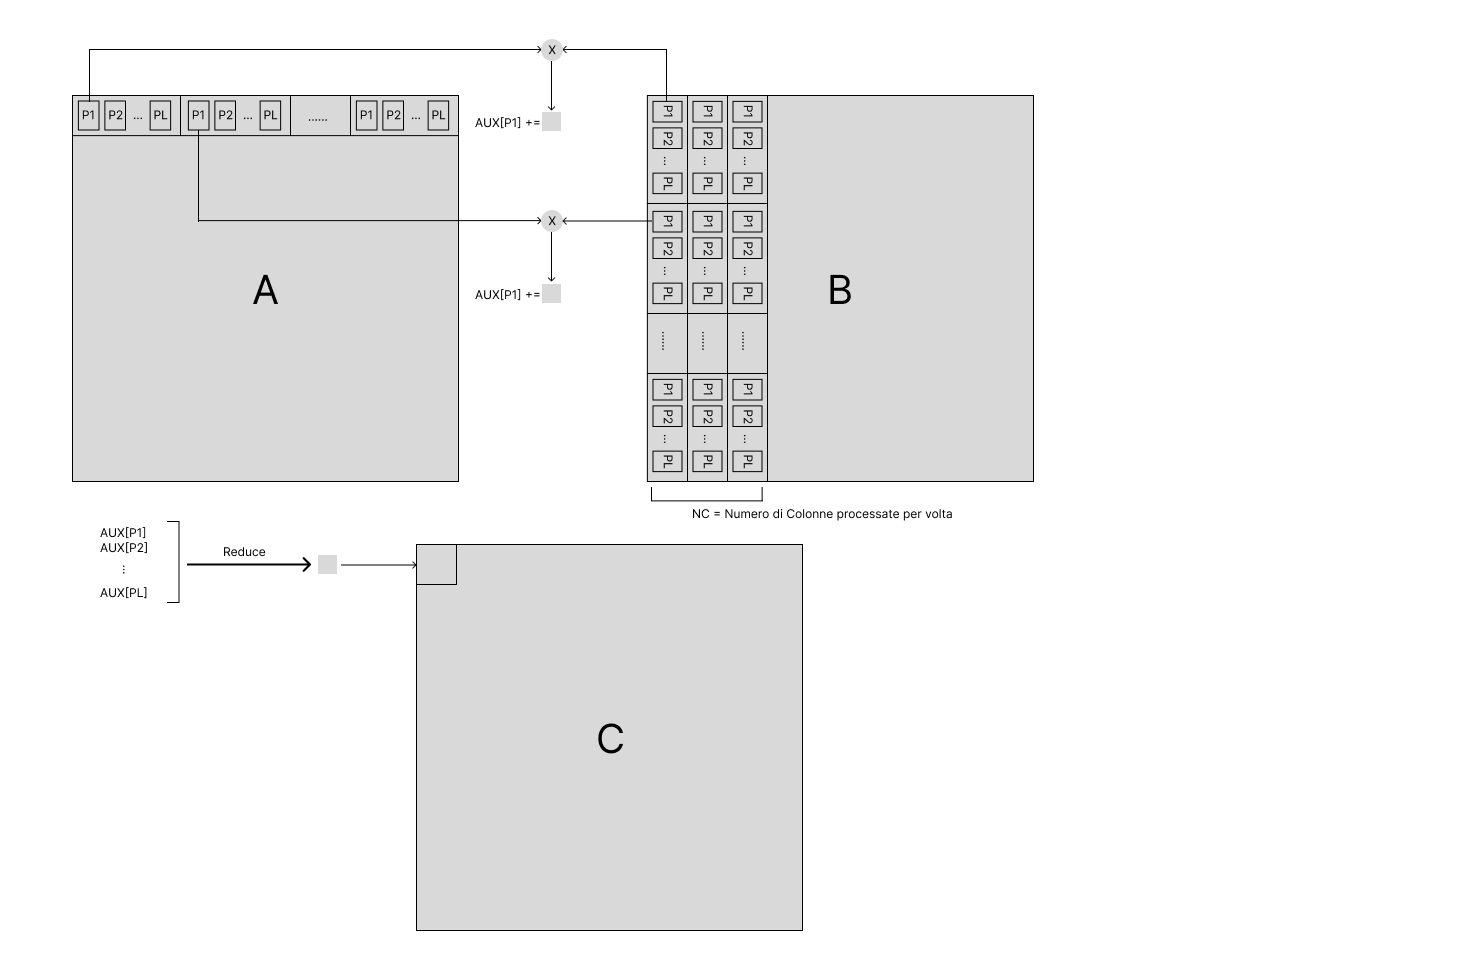
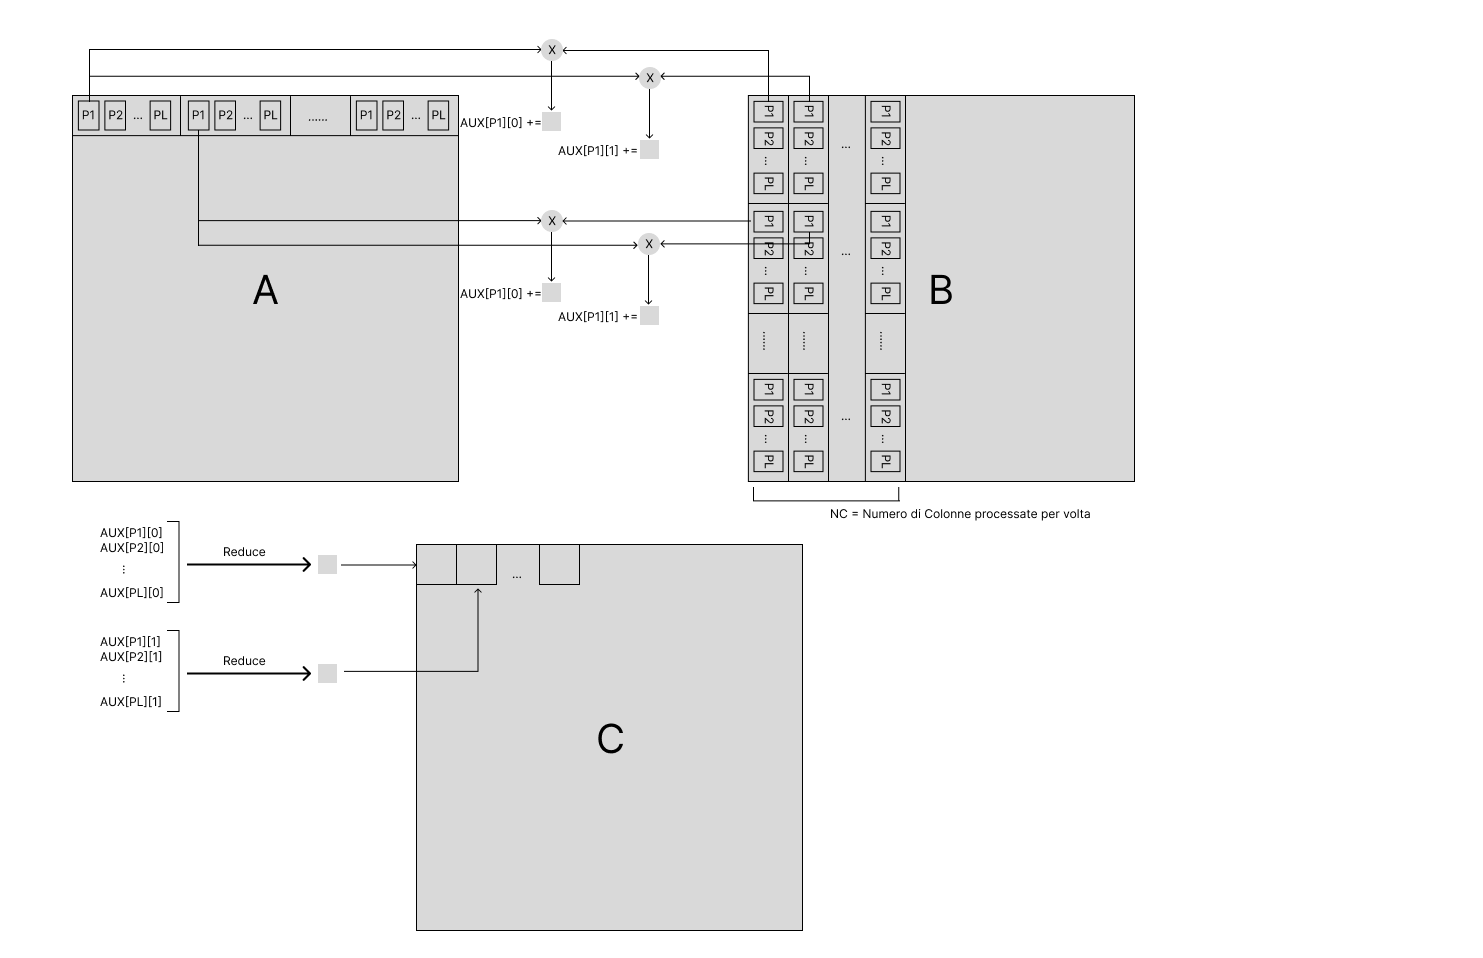
new figures

diff --git a/Report.tex b/Report.tex
@@ -74,7 +74,14 @@ Poiché nella prima versione del codice si scriveva il risultato di un singolo e
 \end{figure}
 
 \subsection{3 versione}
-Nella terza iterazione, si mira a sfruttare l'idea che durante ciascuna iterazione del prodotto tra una riga considerata e un gruppo di colonne, gli stessi elementi della riga A sono utilizzati ripetutamente. Questo consente di memorizzarli in memoria condivisa, riducendo così il numero complessivo di accessi alla memoria globale e incrementando l'efficienza dell'esecuzione. Tuttavia, l'implementazione iniziale prevede lo scorrimento di una colonna alla volta, il che implica la necessità di memorizzare l'intera riga in memoria condivisa. Questo approccio risulta poco pratico dato che le dimensioni delle righe sono considerevoli e la capacità della memoria condivisa è limitata. \\ Per risolvere questo problema, anziché iterare una colonna per volta, si è optato per l'iterazione sulla riga parziale del sottoinsieme delle colonne di B per volta. In questo modo, viene sfruttata la medesima porzione della riga A per eseguire il prodotto con le colonne di B. Tale strategia ottimizza l'utilizzo della memoria condivisa, garantendo al contempo un migliore bilanciamento tra l'efficienza computazionale e l'utilizzo delle risorse di memoria disponibili.
+Nella terza iterazione, si mira a sfruttare l'idea che durante ciascuna iterazione del prodotto tra una riga considerata e un gruppo di colonne, gli stessi elementi della riga A sono utilizzati ripetutamente. Questo consente di memorizzarli in memoria condivisa, riducendo così il numero complessivo di accessi alla memoria globale e incrementando l'efficienza dell'esecuzione. Tuttavia, l'implementazione iniziale prevede lo scorrimento di una colonna alla volta, il che implica la necessità di memorizzare l'intera riga in memoria condivisa. Questo approccio risulta poco pratico dato che le dimensioni delle righe sono considerevoli e la capacità della memoria condivisa è limitata. \\ Per risolvere questo problema, anziché iterare una colonna per volta, si è optato per l'iterazione sulla riga parziale del sottoinsieme delle colonne di B per volta. In questo modo, viene sfruttata la medesima porzione della riga A per eseguire il prodotto con le colonne di B. Tale strategia ottimizza l'utilizzo della memoria condivisa, garantendo al contempo un migliore bilanciamento tra l'efficienza computazionale e l'utilizzo delle risorse di memoria disponibili. (Fig \ref{fig:cuda_scheme_v3})
+
+\begin{figure}
+    \centering
+    \includegraphics[width=0.5\textwidth]{resources/cuda_scheme_v3.png}
+    \caption{Schema di funzionamento della terza versione del codice CUDA.}
+    \label{fig:cuda_scheme_v3}ù
+\end{figure}
 
 \subsection{4 versione}
 Nella quarta iterazione, si è introdotta una piccola variazione nel calcolo dell'indice di colonna di B, rispetto alla terza versione. Nella versione precedente, l'indice di colonna di B viene calcolato come $icx = i * k + j * k + ic$, dove $i$ indica la colonna in cui inizia il blocco di colonne corrente e $j$ rappresenta l'indice della colonna corrente all'interno del blocco. In questo modo, $ik$ posiziona l'iteratore all'inizio del blocco corrente, mentre $jk$ permette di navigare all'interno del blocco. \\ Nella nuova versione, si è scelto di raccogliere il termine $k$, riducendo così il numero di moltiplicazioni. L'indice di colonna di B viene calcolato come $icx = (i + j) * k + ic$. Questa variazione è stata mantenuta perché, nonostante sia una differenza minima, ha dimostrato di influenzare le performance in modo particolare, generando risultati distinti.
